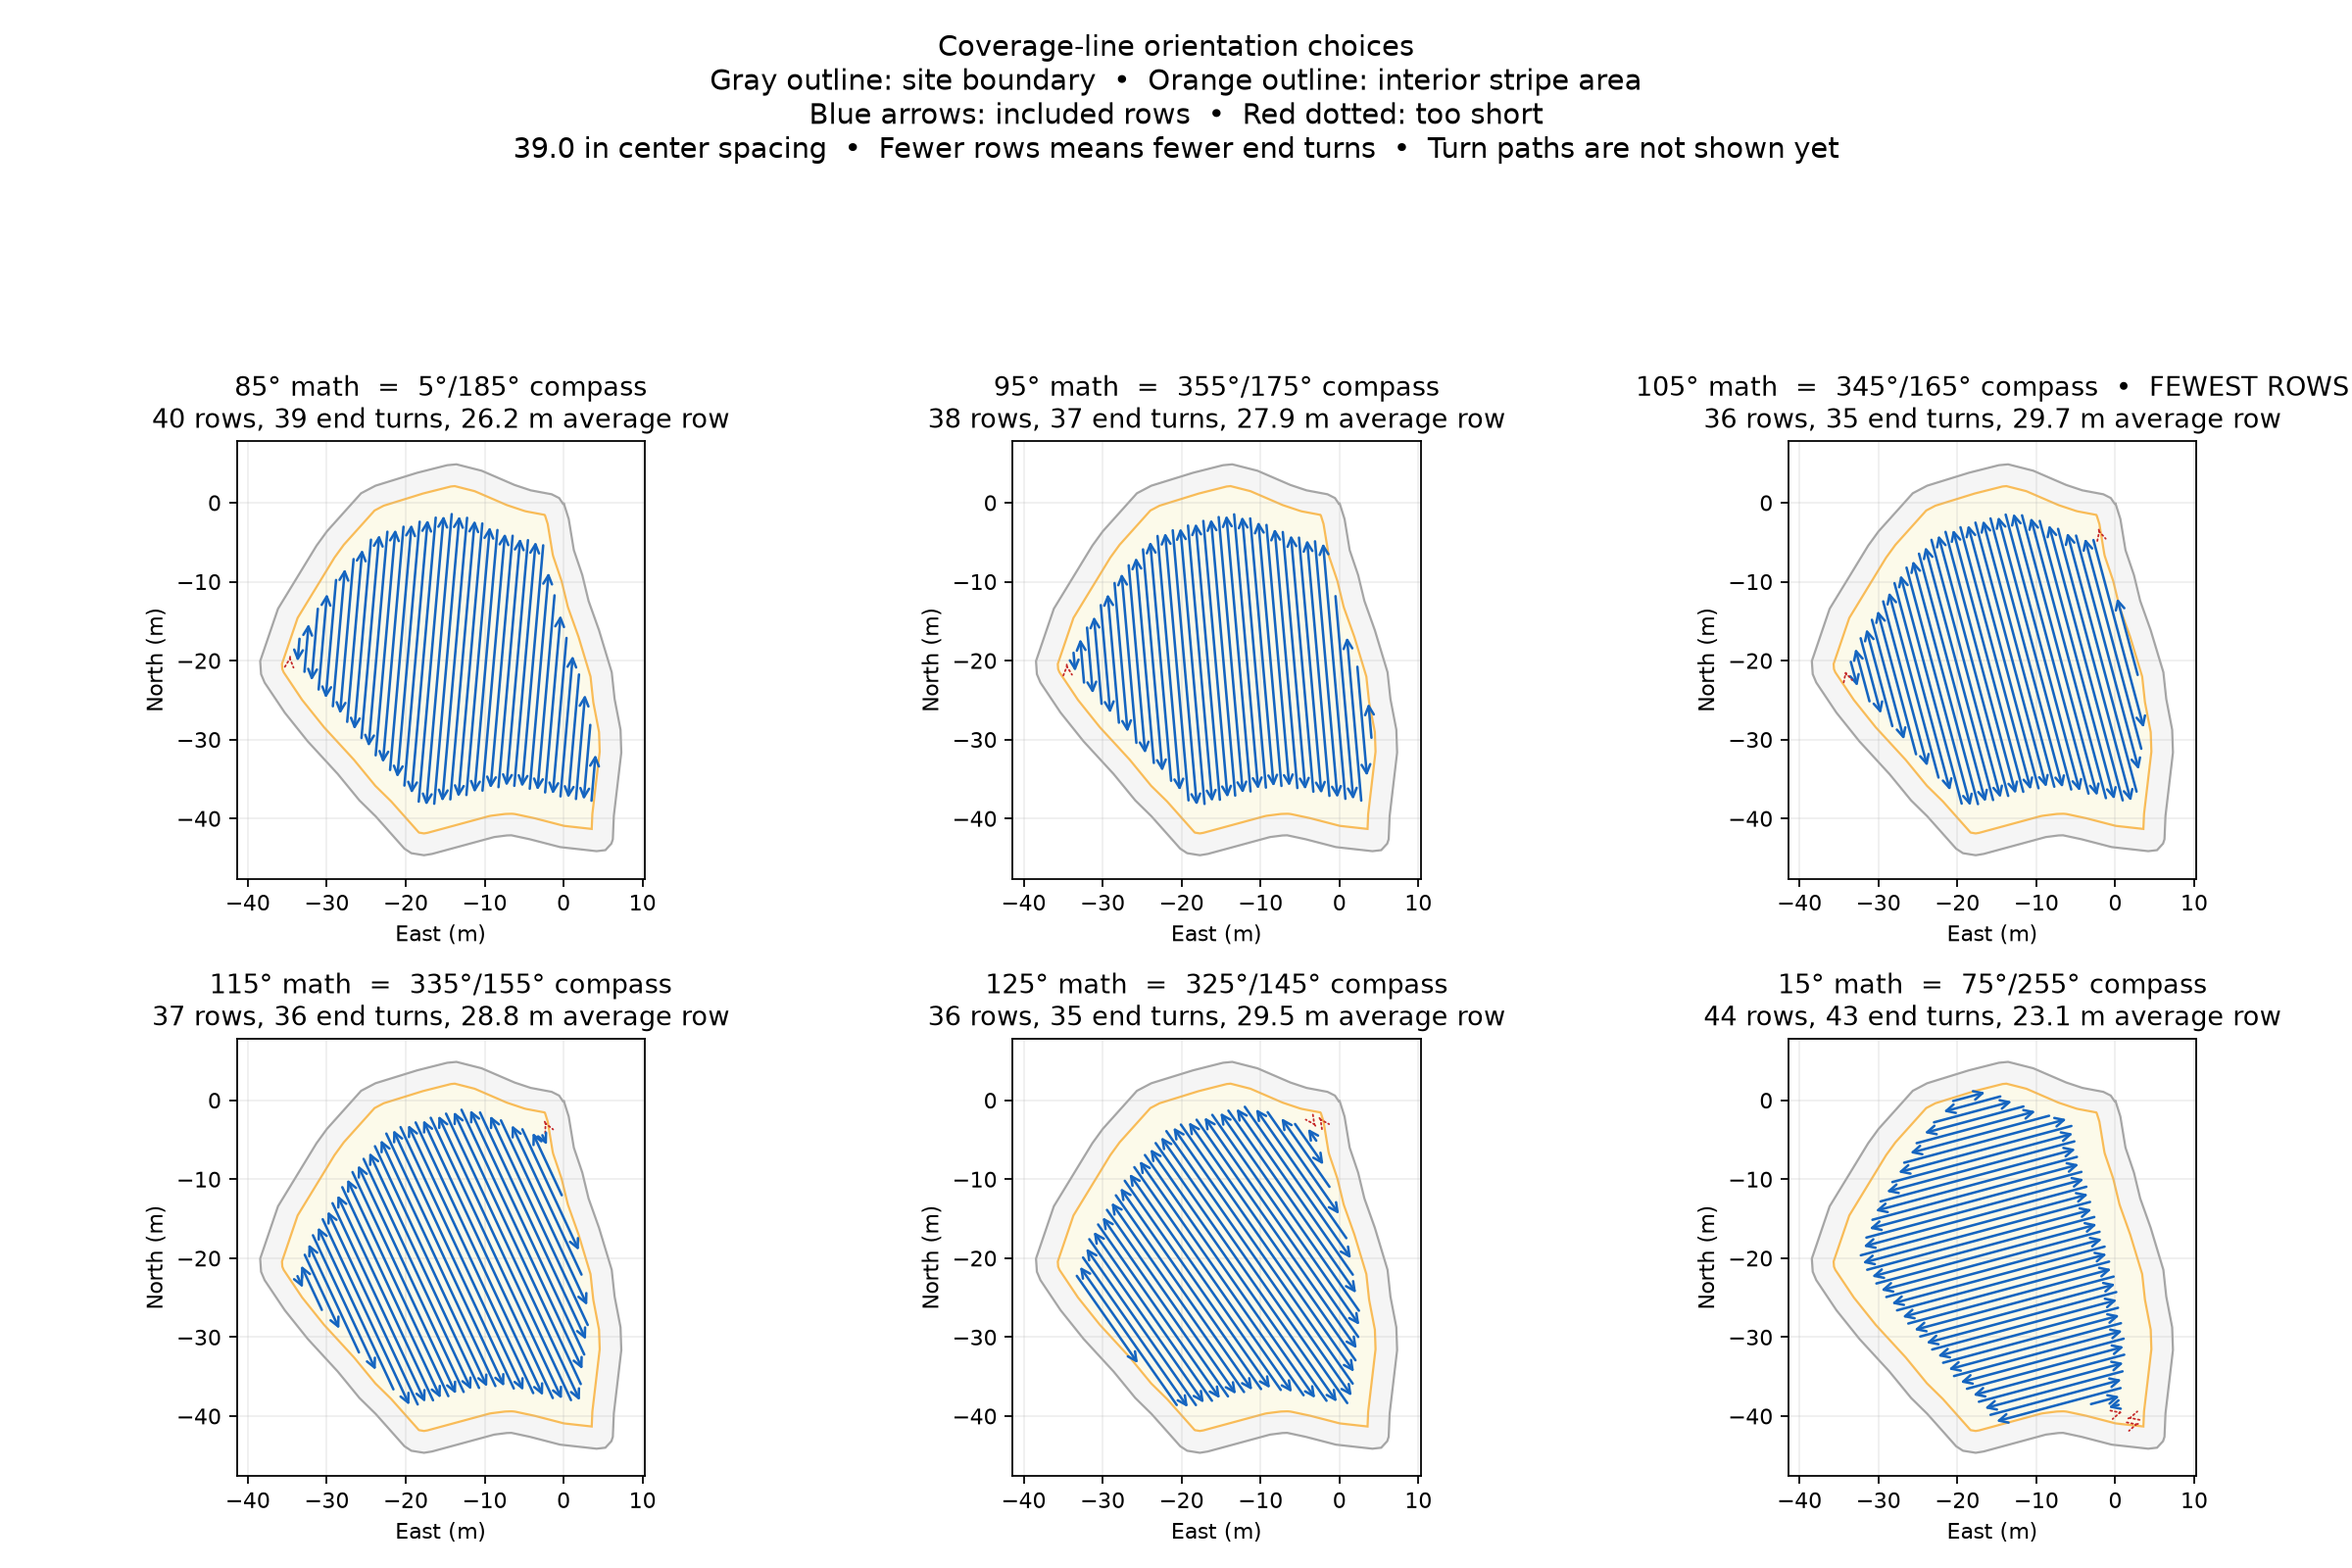
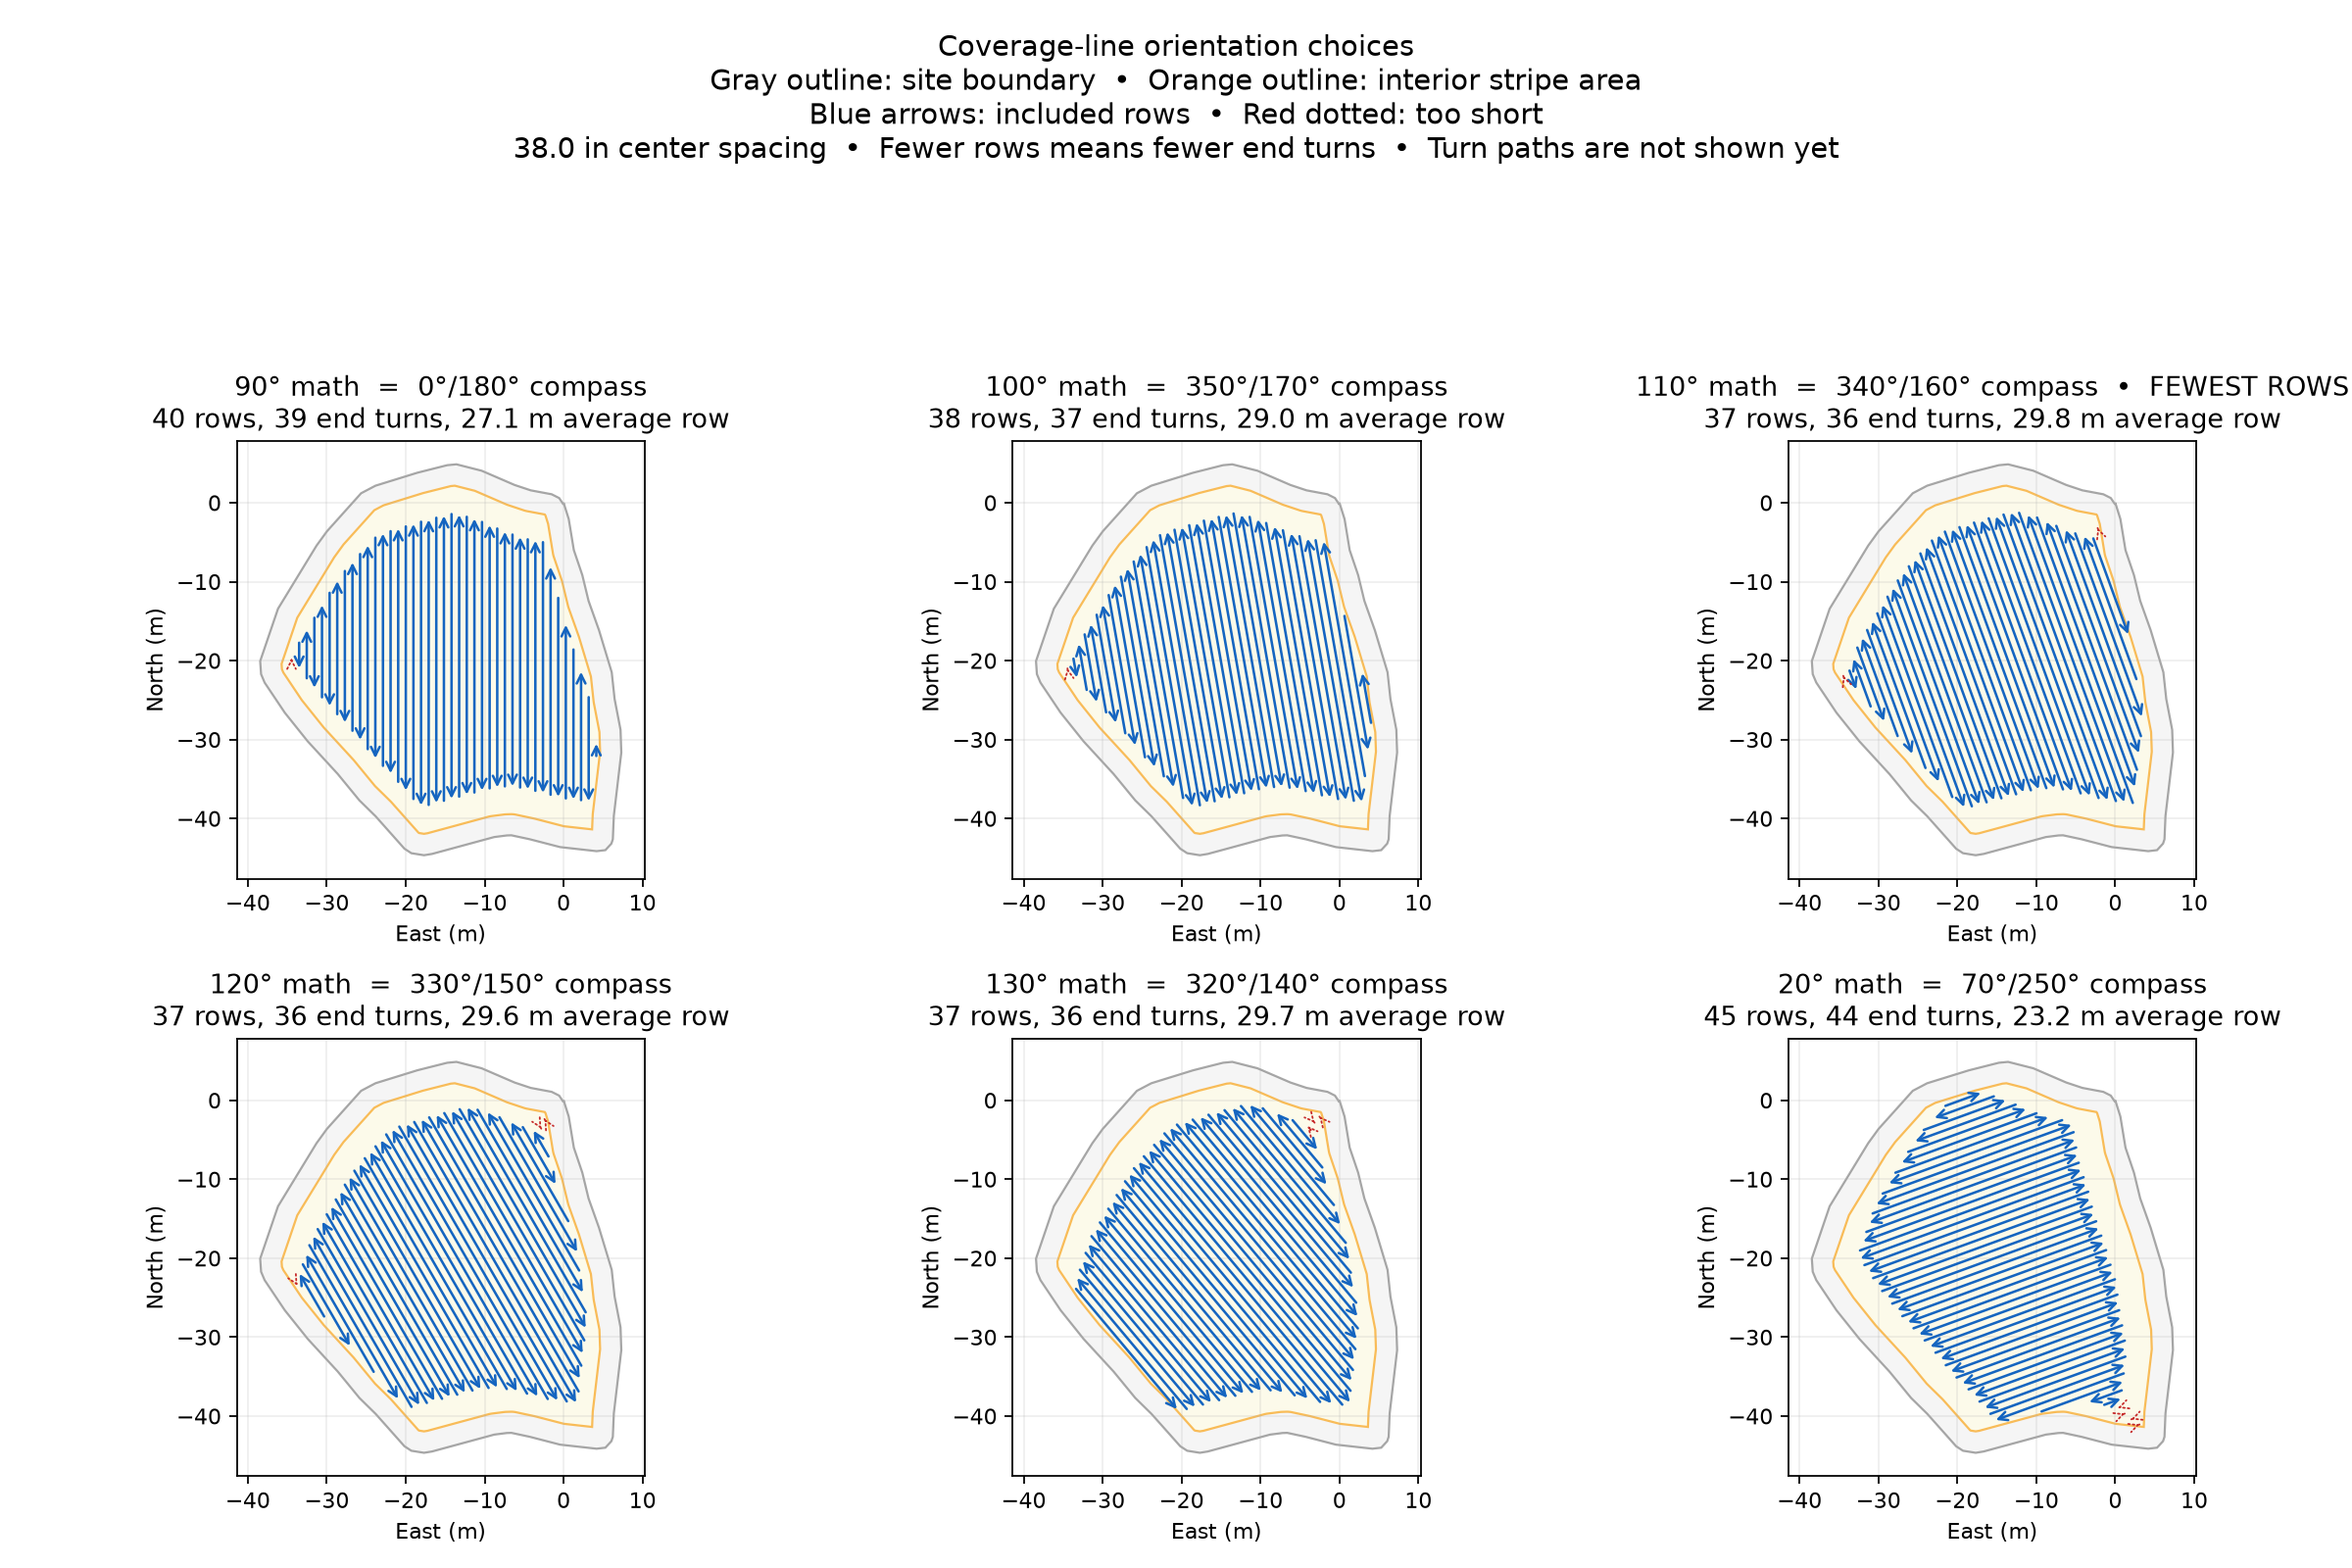
updated instructions

diff --git a/tractor_rpi/pure-pursuit/mission_planning/SITE_COVERAGE_MISSION_WORKFLOW_20260724.md b/tractor_rpi/pure-pursuit/mission_planning/SITE_COVERAGE_MISSION_WORKFLOW_20260724.md
@@ -566,22 +566,24 @@ preview/build work. Also consider:
 - positive angles rotate counterclockwise from east;
 - values repeat every 180° because a stripe is an undirected axis.
 
-The notebook’s important value remains a normal input:
+For example, selecting the panel labeled `20°` means passing that same value:
 
 ```text
---angle-degrees 19
+--angle-degrees 20
 ```
 
-A 19° math-frame forward heading is a 71° compass heading; the opposite stripe
-direction is 251° compass.
+A `20°` math-frame stripe axis corresponds to compass headings of `70°` and
+`250°`. You do not need to convert the selected panel angle before giving it to
+the planner.
 
 ## Step 3 — Preview and edit the coverage plan
 
-Carry the selected Step 2 angle into `preview` through `--angle-degrees`. For
-the Collins Drive site, the selected value is `105`:
+Carry the exact angle printed on the selected Step 2 panel into `preview`
+through `--angle-degrees`. For the current Collins Drive test, the selected
+panel is `20°`, so set `$angle` to `20`:
 
 ```powershell
-$angle = 105
+$angle = 20
 
 python site_coverage_planner_20260724.py preview "$site\01_boundary_final.csv" --output-dir "$site" --angle-degrees $angle --lane-spacing-m 0.9652 --stripe-end-trim-m 3.0 --boundary-clearance-m 0.75 --headland-passes 2 --turn-radius-m 1.90 --stripe-turn-policy keyhole --waypoint-spacing-m 0.50 --straight-speed-mps 0.75 --outer-headland-speed-mps 0.50 --headland-speed-mps 0.75 --turn-speed-mps 0.50 --scan-from low --first-stripe-direction reverse --ring-direction clockwise --outer-headland-follows-boundary
 
@@ -597,7 +599,7 @@ the selected radius and turn policy:
 Get-Content "$site\02_plan_settings.json" -Raw | ConvertFrom-Json | Select-Object angle_degrees, lane_spacing_m, turn_radius_m, stripe_turn_policy, straight_speed_mps, outer_headland_speed_mps, headland_speed_mps, turn_speed_mps
 ```
 
-For Collins Drive, the expected values are `105`, `0.9652`, `1.9`, and
+For this Collins Drive test, the expected values are `20`, `0.9652`, `1.9`, and
 `keyhole`. If `turn_radius_m` still reports `3.0` or the policy is blank, Step 3
 was not rerun with the current command; do not start Step 4.
 
@@ -608,7 +610,7 @@ python3 site_coverage_planner_20260724.py preview \
   ~/field_plans/site_01/01_boundary_final.csv \
   --obstacles ~/field_plans/site_01/01_obstacles.csv \
   --output-dir ~/field_plans/site_01 \
-  --angle-degrees 105 \
+  --angle-degrees 20 \
   --lane-spacing-m 0.9652 \
   --stripe-end-trim-m 3.0 \
   --boundary-clearance-m 0.75 \
@@ -622,10 +624,10 @@ python3 site_coverage_planner_20260724.py preview \
   --outer-headland-follows-boundary
 ```
 
-For `105°`, `reverse` makes the first stripe heading approximately `165°`
-compass (south-southeast). With `scan-from low`, the following stripe is on the
-tractor's right and is driven at approximately `345°` compass
-(north-northwest). This matches the requested alternating-row setup before the
+For `20°`, `reverse` makes the first stripe heading approximately `250°`
+compass (west-southwest). With `scan-from low`, the following stripe is on the
+tractor's right and is driven at approximately `70°` compass
+(east-northeast). This matches the requested alternating-row setup before the
 keyhole turn geometry itself is generated and reviewed.
 
 Outputs:
